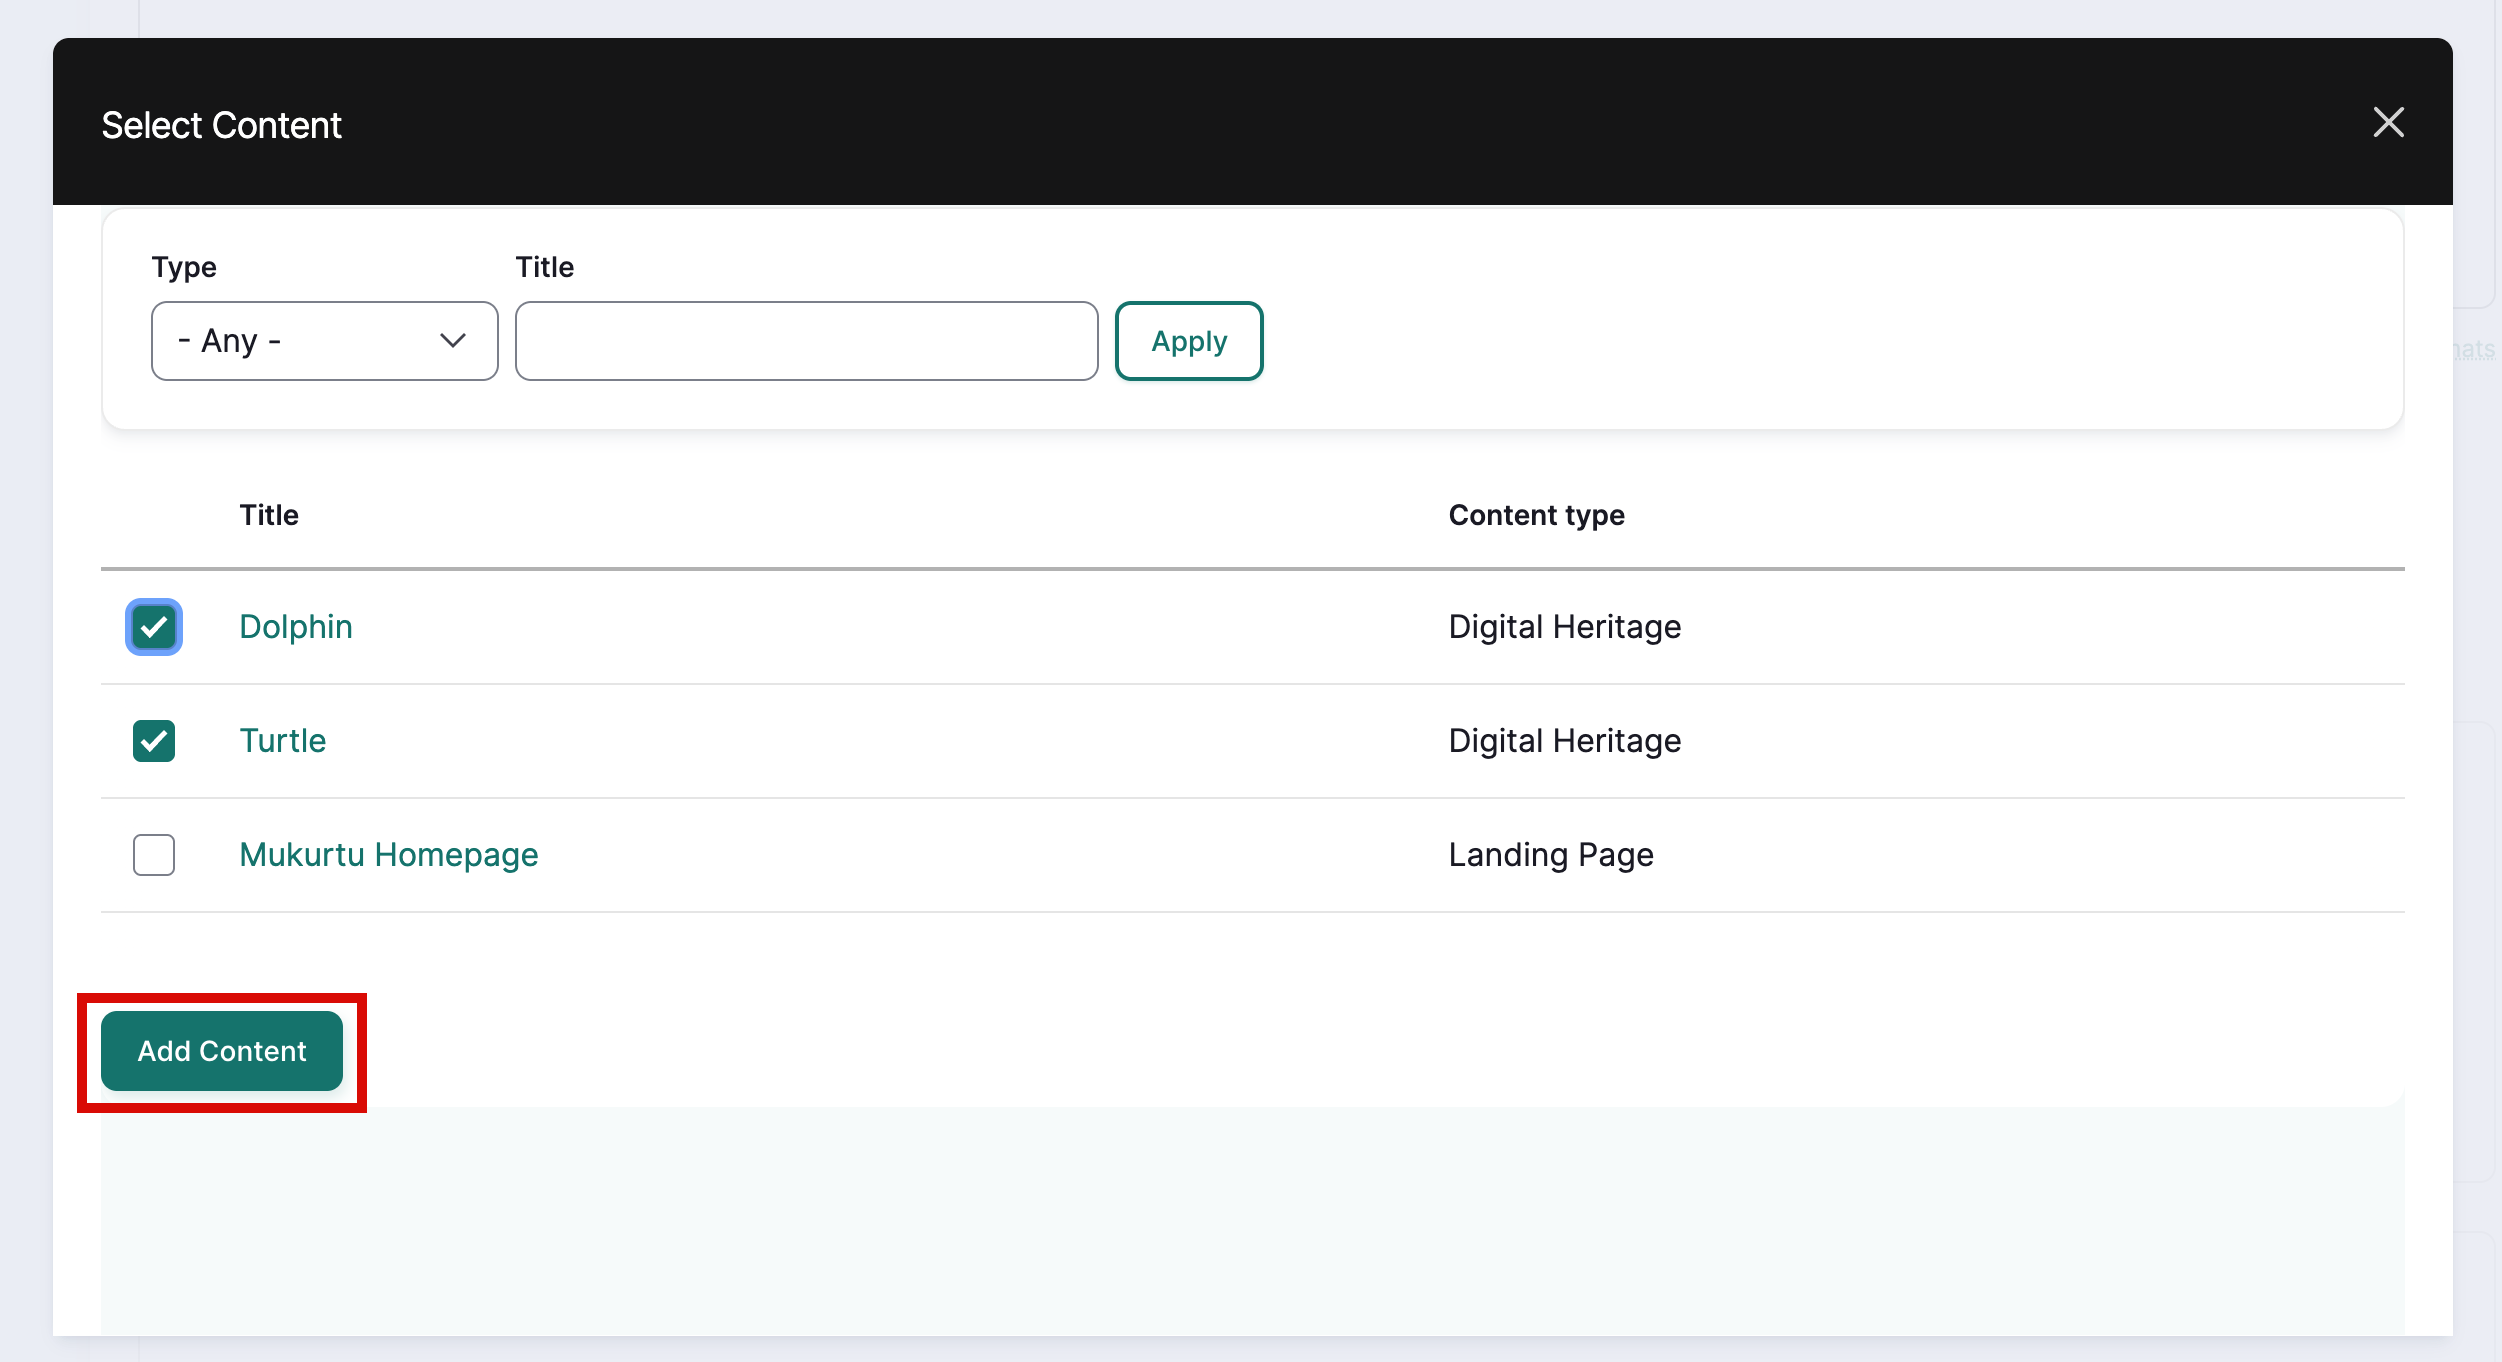
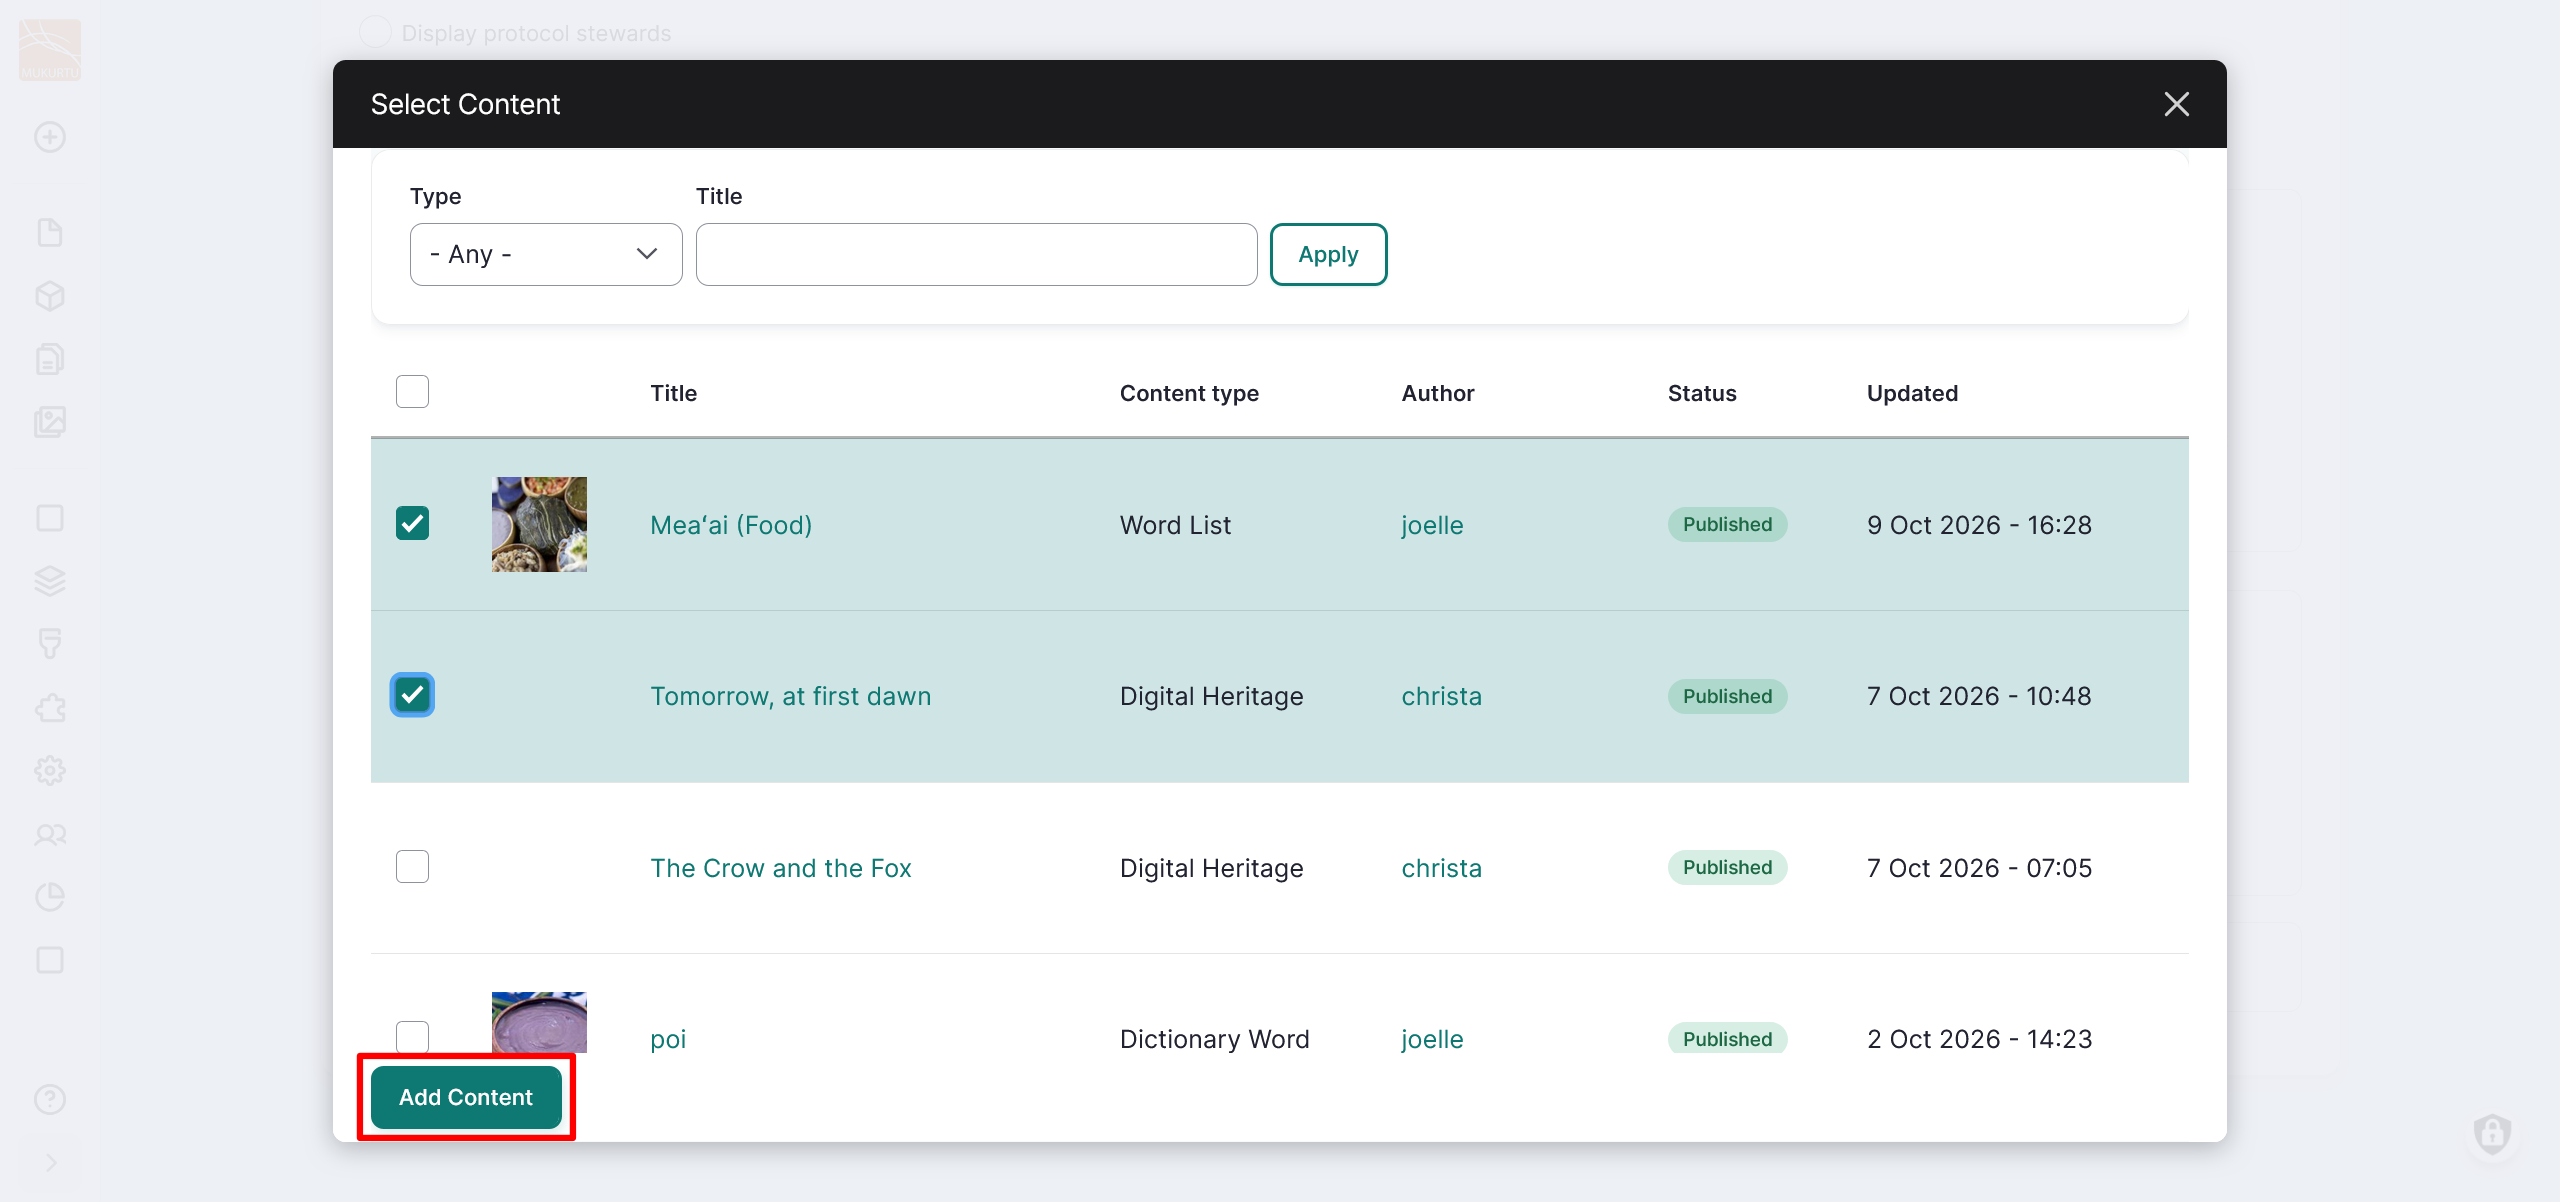
Link checks
Got through multilingual for link checks

diff --git a/docs/users/creating-account-site-wide.md b/docs/users/creating-account-site-wide.md
@@ -38,7 +38,7 @@ Once the form is open, fill out the form.
 
 2. Add a username for the user.
 
-3. Depending on your password settings, the password field may or may not be visible. If for any reason, a password is not entered into this form, the system will auto-generate a password and send a reset link to the user to log in and change their password. If the field is available and you prefer to manually set a password (i.e for security purposes or ease of troubleshooting), you can do so here. For more on password settings, see [Manager User Account Registration](../users/manage-user-account-registration.md).
+3. Depending on your password settings, the password field may or may not be visible. If for any reason, a password is not entered into this form, the system will auto-generate a password and send a reset link to the user to log in and change their password. If the field is available and you prefer to manually set a password (i.e for security purposes or ease of troubleshooting), you can do so here. For more on password settings, see [Manage User Account Registration](../users/manage-user-account-registration.md).
 
     ![The add user form with email address, username and password filled out](../_embeds/add-user-account-05.png)
 

diff --git a/docs/getting-started/index.md b/docs/getting-started/index.md
@@ -12,7 +12,7 @@ There are many different roles and responsibilities available to users for appro
 
 - [User Roles](../users/index.md)
 
-- [Manage User Accounts and site-wide roles](../users/manage-user-accounts-site-wide.md)
+- [Manage User Accounts and Site-wide Roles](../users/manage-user-accounts-site-wide.md)
 
 - [Review User Account Requests](../users/review-user-account-requests.md)
 
@@ -37,7 +37,7 @@ These three structural elements are required to create digital heritage items. Y
 
 - [Create a Community and Initial Cultural Protocol](../communities-cultural-protocols-categories/CreateACommunityAndInitialCulturalProtocol.md)
 
-- [Create a Cultural protocol](../communities-cultural-protocols-categories/CreateACulturalProtocol.md)
+- [Create a Cultural Protocol](../communities-cultural-protocols-categories/CreateACulturalProtocol.md)
 
 - [Create Categories](../communities-cultural-protocols-categories/CreateCategories.md)
 

diff --git a/docs/users/index.md b/docs/users/index.md
@@ -100,4 +100,4 @@ Protocol stewards have full permission to create, edit, and delete content under
 Protocols stewards manage the look and feel of the protocol page, including the title, banner and thumbnail images, description, protocol type, and other advanced display settings. 
 
 
-To read more about managing membership in communities and protocols, see [Manage Community Membership and Roles](../communities-cultural-protocols-categories/ManageCommunityMembershipAndRoles.md) and [Manage Protocol Membership and Roles](../communities-cultural-protocols-categories/ManageProtocolMembershipandRoles.md).
+To read more about managing membership in communities and protocols, see [Manage Community Members](../communities-cultural-protocols-categories/ManageCommunityMembershipAndRoles.md) and [Manage Protocol Members](../communities-cultural-protocols-categories/ManageProtocolMembershipandRoles.md).

diff --git a/docs/communities-cultural-protocols-categories/SharedProtocols.md b/docs/communities-cultural-protocols-categories/SharedProtocols.md
@@ -25,7 +25,7 @@ Protocol stewards can add and remove users and manage user roles. They can see a
 
 The steps to add users and assign user roles are the same as with typical protocols. For detailed instructions, see [Manage Protocol Members](../communities-cultural-protocols-categories/ManageProtocolMembershipandRoles.md)
 
-Mukurtu managers can also add users to communities and protocols upon account creation. In this form, shared protocols are repeated under each of their parent communities. See [Create User Accounts as a Mukurtu Manager](../users/creating-account-site-wide.md)
+Mukurtu managers can also add users to communities and protocols upon account creation. In this form, shared protocols are repeated under each of their parent communities. See [Create User Accounts from a Site-wide Role](../users/creating-account-site-wide.md)
 
 
 ## Assigning shared protocols to content

diff --git a/docs/users/manage-user-accounts-site-wide.md b/docs/users/manage-user-accounts-site-wide.md
@@ -26,7 +26,7 @@ On the far right, the operations menu contains additional controls that you can 
 To edit a user's account, find their username, and select the **edit** button in their row. 
 ![User list with edit button highlighted](../_embeds/add-user-account-12.png)
 
-Make any desired edits and select **Save**. Refer to the [Create a new user account](../users/creating-account-site-wide.md) and [Manage Email Notification Preferences](../users/ManageEmailNotificationPreferences.md) articles for detail on each field.
+Make any desired edits and select **Save**. Refer to the [Create User Accounts from a Site-wide Role](../users/creating-account-site-wide.md) and [Manage Email Notification Preferences](../users/ManageEmailNotificationPreferences.md) articles for detail on each field.
 
 You will be returned to the user list and a success message will be displayed.
 

diff --git a/docs/communities-cultural-protocols-categories/EditCulturalProtocolSettings.md b/docs/communities-cultural-protocols-categories/EditCulturalProtocolSettings.md
@@ -82,7 +82,7 @@ Featured content gives users a preview of selected content. It displays the titl
 3. All available content is displayed below the search bar. Check the box next to each piece of content you wish to feature.
 4. Select "Add Content".
 
-    ![Screenshot of featured content modal with checkboxes next to selected items and add content button highlighted in red.](../_embeds/edit-protocol-05.png) UPDATE WHEN MODAL IS FIXED
+    ![Screenshot of featured content modal with checkboxes next to selected items and add content button highlighted in red.](../_embeds/edit-protocol-05.png) 
 
 5. Remove featured content by selecting the grey trash can icon on the top right corner of each piece of content.
 

diff --git a/docs/communities-cultural-protocols-categories/ManageProtocolMembershipandRoles.md b/docs/communities-cultural-protocols-categories/ManageProtocolMembershipandRoles.md
@@ -94,7 +94,7 @@ A success message will display. The user will be unblocked and access to the pro
 
 ### Remove Users
 
-1. To remove a user from the protocol, select "Remove user" from the operations dropdown mnenu. 
+1. To remove a user from the protocol, select "Remove user" from the operations dropdown menu. 
 
     ![The members page with the manage roles dropdown menu exposed and the remove button highlighted](../_embeds/manage-protocol-members-07.2.png)
 
